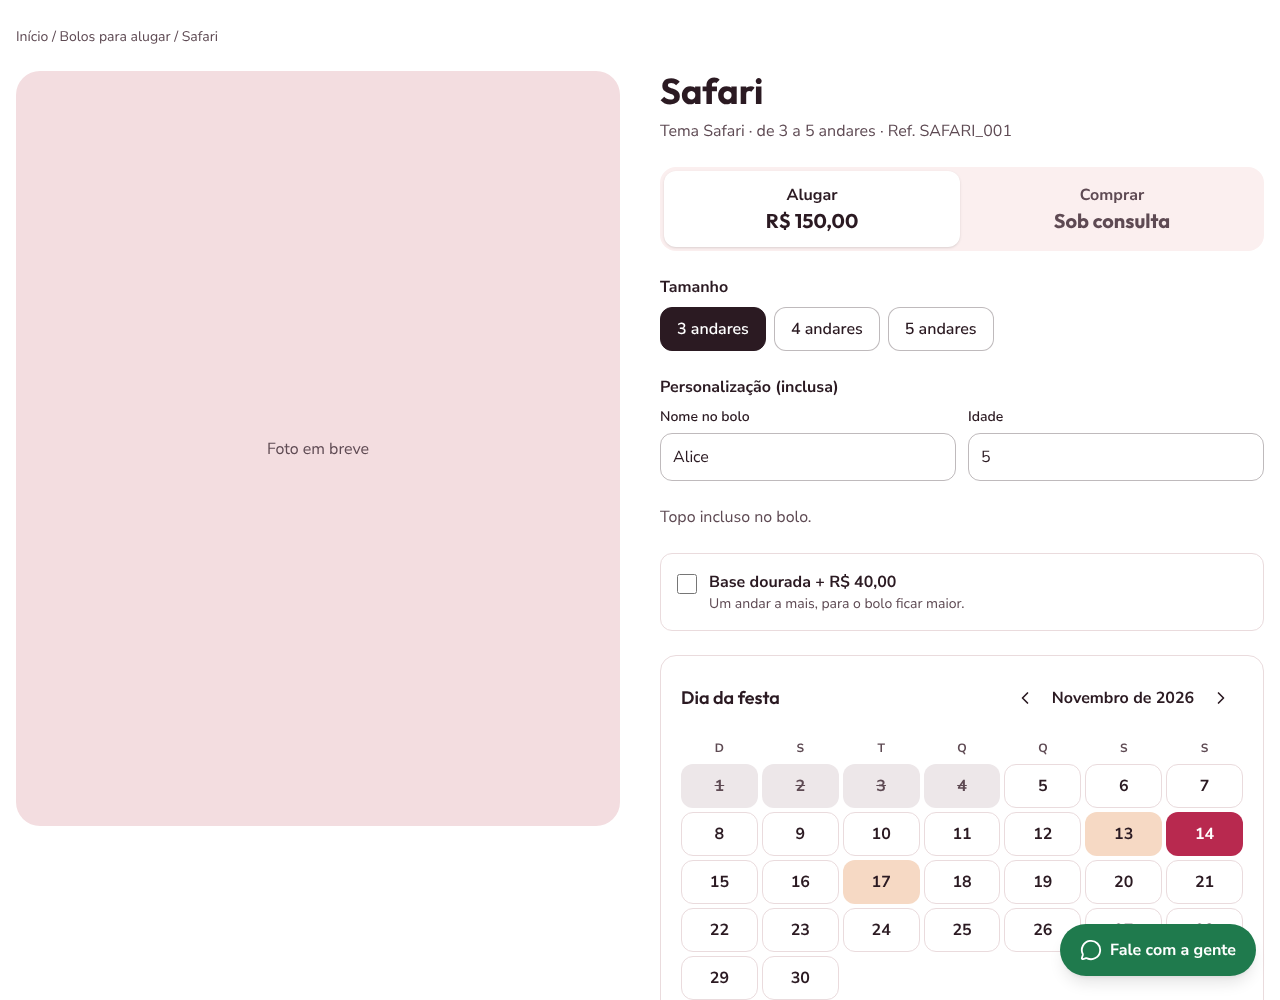
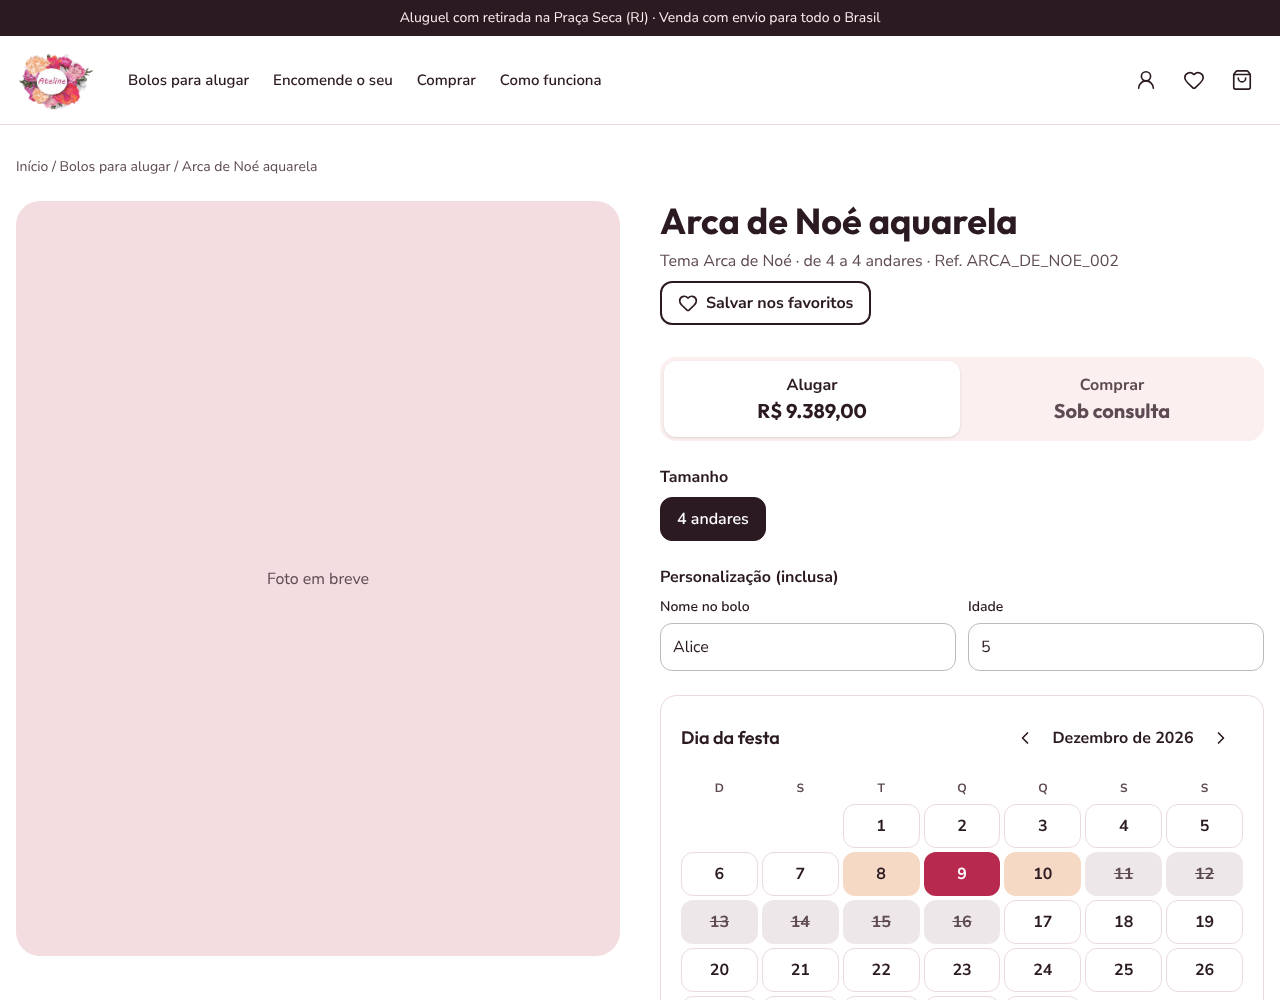
Ajustes no celular: Pix, calendário, carrinho e botões

diff --git a/components/carrinho/Carrinho.tsx b/components/carrinho/Carrinho.tsx
@@ -6,6 +6,7 @@ import { useCarrinho } from "@/hooks/useCarrinho";
 import { diaPorExtenso, primeiraMaiuscula } from "@/lib/calendario";
 import { chaveDoItem, resumoDoCarrinho, totalDoItem } from "@/lib/carrinho";
 import { formatarPreco } from "@/lib/formatar";
+import { fotoDoCartao } from "@/lib/fotosDosBolos";
 import { calcularPeriodo } from "@/lib/periodo";
 import type { ItemCarrinho } from "@/types/carrinho";
 
@@ -50,7 +51,12 @@ export function Carrinho() {
       <ul className="flex flex-col gap-4">
         {itens.map((item) => (
           <li key={chaveDoItem(item)} className="flex gap-4 rounded-2xl border border-linha p-4">
-            <div aria-hidden="true" className="h-28 w-22 shrink-0 rounded-xl bg-rosa" />
+            <div aria-hidden="true" className="relative h-20 w-16 shrink-0 overflow-hidden rounded-xl bg-rosa sm:h-28 sm:w-22">
+              {fotoDoCartao(item.codigoBolo) && (
+                // eslint-disable-next-line @next/next/no-img-element -- miniatura decorativa, já otimizada pelo npm run fotos
+                <img src={fotoDoCartao(item.codigoBolo)} alt="" className="size-full object-cover" />
+              )}
+            </div>
             <div className="flex min-w-0 flex-1 flex-col gap-1">
               <span className="self-start rounded-full bg-blush px-2.5 py-0.5 text-xs font-bold">
                 {item.tipo === "aluguel" ? "Aluguel" : "Compra"}
@@ -62,9 +68,10 @@ export function Carrinho() {
                 {item.nome}
               </Link>
               <DetalhesDoItem item={item} />
+              <span className="mt-1 font-bold sm:hidden">{formatarPreco(totalDoItem(item))}</span>
             </div>
             <div className="flex flex-col items-end justify-between">
-              <span className="font-bold">{formatarPreco(totalDoItem(item))}</span>
+              <span className="hidden font-bold sm:inline">{formatarPreco(totalDoItem(item))}</span>
               <button
                 type="button"
                 onClick={() => remover(chaveDoItem(item))}
@@ -82,18 +89,18 @@ export function Carrinho() {
         <h2 className="font-display text-xl font-semibold">Resumo</h2>
         {resumo.temAluguel && (
           <>
-            <p className="flex justify-between">
+            <p className="flex justify-between gap-3">
               <span>Locação</span>
               <span>{formatarPreco(resumo.locacao)}</span>
             </p>
-            <p className="flex justify-between">
+            <p className="flex justify-between gap-3">
               <span>Taxa de segurança (devolvida)</span>
               <span>{formatarPreco(resumo.taxas)}</span>
             </p>
           </>
         )}
         {resumo.temCompra && (
-          <p className="flex justify-between">
+          <p className="flex justify-between gap-3">
             <span>Compra</span>
             <span>{formatarPreco(resumo.compras)}</span>
           </p>

diff --git a/components/conta/FormularioEntrar.tsx b/components/conta/FormularioEntrar.tsx
@@ -121,7 +121,7 @@ export function FormularioEntrar() {
             setEmailEnviado(null);
             mudarModo("senha");
           }}
-          className="font-bold text-framboesa underline"
+          className="inline-flex min-h-11 items-center font-bold text-framboesa underline"
         >
           Voltar
         </button>
@@ -217,22 +217,22 @@ export function FormularioEntrar() {
         </button>
       </form>
 
-      <div className="flex flex-col items-start gap-2 text-sm">
+      <div className="flex flex-col items-start gap-0 text-sm">
         {modo === "senha" && (
           <>
-            <button type="button" onClick={() => mudarModo("esqueci")} className="font-bold text-framboesa underline">
+            <button type="button" onClick={() => mudarModo("esqueci")} className="inline-flex min-h-11 items-center font-bold text-framboesa underline">
               Esqueci minha senha
             </button>
             <p>
               Ainda não tem conta?{" "}
-              <button type="button" onClick={() => mudarModo("criar")} className="font-bold text-framboesa underline">
+              <button type="button" onClick={() => mudarModo("criar")} className="inline-flex min-h-11 items-center font-bold text-framboesa underline">
                 Criar conta com senha
               </button>
             </p>
           </>
         )}
         {(modo === "criar" || modo === "esqueci") && (
-          <button type="button" onClick={() => mudarModo("senha")} className="font-bold text-framboesa underline">
+          <button type="button" onClick={() => mudarModo("senha")} className="inline-flex min-h-11 items-center font-bold text-framboesa underline">
             Já tenho senha: entrar
           </button>
         )}

diff --git a/components/checkout/Confirmacao.tsx b/components/checkout/Confirmacao.tsx
@@ -122,7 +122,7 @@ export function Confirmacao() {
             href={linkEntrega}
             target="_blank"
             rel="noopener"
-            className="flex h-12 items-center gap-2 rounded-xl bg-folha px-5 font-bold text-white hover:opacity-90"
+            className="flex min-h-12 items-center gap-2 rounded-xl bg-folha px-5 py-2 font-bold leading-tight text-white hover:opacity-90"
           >
             <MessageCircle size={20} aria-hidden /> Combinar a entrega no WhatsApp
           </a>
@@ -140,7 +140,7 @@ export function Confirmacao() {
             href={linkFrete}
             target="_blank"
             rel="noopener"
-            className="flex h-12 items-center gap-2 rounded-xl bg-folha px-5 font-bold text-white hover:opacity-90"
+            className="flex min-h-12 items-center gap-2 rounded-xl bg-folha px-5 py-2 font-bold leading-tight text-white hover:opacity-90"
           >
             <MessageCircle size={20} aria-hidden /> Pedir orçamento do frete
           </a>

diff --git a/components/Footer.tsx b/components/Footer.tsx
@@ -22,7 +22,7 @@ export function Footer() {
           </p>
           <a
             href="https://www.instagram.com/atelineatelie"
-            className="text-sm font-bold text-framboesa hover:underline"
+            className="self-start py-1.5 text-sm font-bold text-framboesa hover:underline"
           >
             @atelineatelie
           </a>
@@ -35,10 +35,10 @@ export function Footer() {
           <p className="text-ameixa-suave">Fechado domingo e segunda</p>
         </div>
 
-        <nav aria-label="Ajuda" className="flex flex-col gap-1 text-sm">
+        <nav aria-label="Ajuda" className="flex flex-col items-start text-sm">
           <h2 className="mb-1 font-display text-base font-semibold">Ajuda</h2>
           {ajuda.map((link) => (
-            <Link key={link.href} href={link.href} className="hover:text-framboesa">
+            <Link key={link.href} href={link.href} className="py-1.5 hover:text-framboesa">
               {link.label}
             </Link>
           ))}

diff --git a/components/PagamentoPix.tsx b/components/PagamentoPix.tsx
@@ -52,7 +52,7 @@ export function PagamentoPix({ numero, valor, guardadoAte }: Props) {
 
   return (
     <div className="flex w-full flex-col gap-4">
-      <div className="flex flex-wrap items-start gap-5">
+      <div className="flex flex-col items-center gap-5 sm:flex-row sm:items-start">
         {qr ? (
           <div
             role="img"
@@ -65,7 +65,7 @@ export function PagamentoPix({ numero, valor, guardadoAte }: Props) {
             Gerando QR Code…
           </div>
         )}
-        <div className="flex min-w-0 flex-1 flex-col gap-2 text-sm">
+        <div className="flex w-full min-w-0 flex-1 flex-col gap-2 text-sm">
           <dl className="flex flex-col gap-1">
             <div>
               <dt className="inline text-ameixa-suave">Valor: </dt>

diff --git a/components/bolo/CalendarioReserva.tsx b/components/bolo/CalendarioReserva.tsx
@@ -51,8 +51,8 @@ export function CalendarioReserva({ codigo, reservas, festa, aoEscolher, ocupada
 
   return (
     <section aria-labelledby="titulo-calendario" className="flex flex-col gap-4 rounded-2xl border border-linha p-5">
-      <div className="flex items-center justify-between gap-2">
-        <h2 id="titulo-calendario" className="font-display text-lg font-semibold">
+      <div className="flex flex-wrap items-center justify-between gap-x-2 gap-y-1">
+        <h2 id="titulo-calendario" className="whitespace-nowrap font-display text-lg font-semibold">
           Dia da festa
         </h2>
         <div className="flex items-center gap-1">

diff --git a/components/bolo/MontarReserva.tsx b/components/bolo/MontarReserva.tsx
@@ -385,7 +385,7 @@ export function MontarReserva({ bolo, topos, bases, reservas: daPublicacao, outr
             </p>
             {erro && <p role="alert" className="font-semibold text-alerta">{erro}</p>}
             <button type="button" onClick={reservar}
-              className="mt-2 h-14 rounded-xl bg-framboesa text-lg font-bold text-white hover:bg-framboesa-escura">
+              className="mt-2 min-h-14 rounded-xl bg-framboesa px-4 py-2 text-lg font-bold leading-tight text-balance text-white hover:bg-framboesa-escura">
               Reservar e pagar sinal de {formatarPreco(sinal)}
             </button>
           </section>

diff --git a/components/home/Hero.tsx b/components/home/Hero.tsx
@@ -47,7 +47,7 @@ export function Hero() {
         </div>
 
         {/* Espaço das fotos: troque pelas fotos reais quando chegarem */}
-        <div className="grid grid-cols-2 gap-4" aria-hidden="true">
+        <div className="hidden grid-cols-2 gap-4 md:grid" aria-hidden="true">
           <div className="row-span-2 min-h-96 rounded-3xl bg-rosa" />
           <div className="min-h-44 rounded-3xl bg-pessego" />
           <div className="min-h-44 rounded-3xl bg-blush ring-1 ring-linha" />

diff --git a/README.md b/README.md
@@ -6,9 +6,11 @@ Loja online da **Ateline Ateliê** ([@atelineatelie](https://www.instagram.com/a
 
 ![Página inicial](docs/home.png)
 
-| Página do bolo, com calendário de disponibilidade | Catálogo no celular |
+![Página do bolo, com calendário de disponibilidade](docs/bolo.png)
+
+| Catálogo no celular | Pix do sinal, gerado no próprio site |
 | --- | --- |
-| ![Página do bolo](docs/bolo.png) | ![Catálogo no celular](docs/celular.png) |
+| ![Catálogo no celular](docs/celular.png) | ![Pix com QR Code e copia e cola](docs/pix.png) |
 
 > As fotos dos bolos ainda estão sendo produzidas. Bolo sem foto mostra "Foto em breve"; com foto, o site já exibe sozinho (veja `npm run fotos`).
 
@@ -22,13 +24,15 @@ Hoje o atendimento da Ateline é todo pelo WhatsApp: a cliente pergunta se o bol
 - **"Livres na sua data":** tocando num dia ocupado, a cliente vê outros bolos livres naquele dia (mesmo tema primeiro) e já abre o bolo com a data escolhida.
 - **Montar a reserva:** tamanho (número de andares), decoração, topo opcional, base dourada e personalização (nome, idade ou inicial). O topo e a base também têm agenda própria.
 - **Filtro "só livres nessa data"** no catálogo, além de busca por nome, tema e decoração.
+- **Entrega do aluguel combinada pelo WhatsApp:** a loja entrega só em alguns bairros. A cliente reserva e paga o sinal normalmente e, na confirmação, um botão abre o WhatsApp com a reserva, as datas e o endereço para saber se a loja atende e o valor; se não atender, ela retira na loja. No painel, o cartão de saída avisa quem pediu entrega e o bairro.
 - **Compra:** com 50% de sinal, retirada grátis na loja ou envio por transportadora. O CEP preenche o endereço sozinho (ViaCEP), e o orçamento do frete vai pronto para o WhatsApp da loja.
 - **Encomenda:** formulário de orçamento para um bolo novo e a opção de **refazer** um bolo que saiu do acervo, com cupom de desconto e antecedência mínima de 20 dias.
 - **Carrinho e checkout** com aluguel e compra no mesmo pedido, validação de CPF e telefone, aceite do contrato e chave Pix para devolver a taxa de segurança. Depois do pedido, aparece o **Pix da Ateline (QR Code e copia e cola)** já com o valor do sinal e o número do pedido, gerado no próprio site no padrão do Banco Central e pago direto na conta PJ, sem intermediário. O banco confere a agenda e os preços e reserva as peças por 30 minutos, o tempo de pagar o sinal (a loja só garante a data com o sinal pago na hora).
 - **Login com senha ou com link mágico por e-mail** (criar conta, esqueci a senha) e **Minha conta:** próxima retirada, histórico de pedidos com a situação de cada um e dados pessoais e endereço salvos na conta.
 - **Adiar ou cancelar pela conta:** com o sinal pago e até 15 dias antes da festa, a cliente escolhe a nova data num calendário que só mostra os dias livres, e o banco move a reserva na hora. Se cancelar, o sinal vira **crédito em loja** por 3 meses, que pode pagar o sinal de um próximo pedido no checkout (se cobrir o sinal inteiro, o pedido já sai confirmado).
-- **Contrato em PDF:** o contrato de locação sai preenchido com os dados da cliente, as peças, as datas e os valores, e pode ser baixado na confirmação do pedido e em Minha conta. O PDF é gerado no próprio navegador ([jsPDF](https://github.com/parallax/jsPDF)).
+- **Contrato em PDF:** o contrato de locação sai preenchido com os dados da cliente, as peças, as datas, os valores e o valor de reposição de cada bolo (cobrado se a peça não voltar ou voltar sem conserto), além da data, hora e IP do aceite, e pode ser baixado na confirmação do pedido e em Minha conta. O PDF é gerado no próprio navegador ([jsPDF](https://github.com/parallax/jsPDF)).
 - **Favoritos para decidir em família:** a cliente separa até 3 bolos no coração e manda um link pelo WhatsApp; quem abre vê os bolos lado a lado.
+- **Fotos dos bolos:** cada bolo tem uma pasta com o código dele (pode ser no OneDrive); `npm run fotos` gera versões leves, e o site mostra a foto nos cartões, uma galeria com miniaturas na página do bolo e a foto no link compartilhado.
 - **Painel da loja:** agenda do dia (o que sai, o que volta, o que está atrasado), confirmação de pagamento com um clique, checklist de devolução, fotos das peças na saída e na volta (guardadas numa pasta privada do Supabase Storage, com as da saída ao lado na devolução para comparar avarias) e a conta da taxa de segurança (multa por atraso, vela não devolvida, avaria). O painel pode ser **instalado no celular como app** (PWA, só ele: as páginas das clientes continuam um site normal), com uma página amigável quando está sem internet. Como o app instalado no iPhone não recebe o login pelo link do e-mail, a equipe pode criar uma senha no painel e entrar com e-mail e senha.
 - **Relatórios:** faturamento, bolos mais alugados, festas por dia da semana, clientes (novas por mês e as que voltaram) e bolos mais vistos no site, com alerta para os muito vistos e pouco alugados. As visualizações são contadas sem guardar dados de quem viu.
 - **Conteúdo para o Instagram:** o painel monta posts (bolos livres no próximo sábado, destaque, como funciona) com imagem e legenda; a dona revisa, aprova e agenda, e na hora marcada copia a legenda e baixa a imagem para postar.
@@ -65,7 +69,7 @@ flowchart LR
 - **Site estático + Supabase, sem servidor próprio.** As páginas são geradas na hora de publicar (`output: "export"`, uma por bolo com `generateStaticParams`) e já saem com a agenda daquele momento. No navegador, a agenda é buscada de novo no Supabase, então uma reserva feita no painel aparece na hora.
 - **O banco é quem decide.** A trava contra reserva dupla é uma *exclusion constraint* do Postgres (mesma peça + períodos que se cruzam), e o pedido é criado por uma função (`criar_pedido`) que confere a agenda, recalcula os valores com os preços do banco e reserva as peças numa só transação. Reservas sem sinal se soltam sozinhas depois de 30 minutos.
 - **Segurança por pessoa com RLS.** Visitante só lê a agenda pública; cada cliente só vê os próprios dados e pedidos; o painel e as ações da loja só funcionam para quem está na tabela da equipe. A chave secreta do Supabase fica só nos *secrets* do GitHub.
-- **Regras de negócio em funções puras e testadas.** Datas, disponibilidade, valores, cupom, conta da taxa de segurança e validações ficam em `lib/`, separados das telas, com 176 testes. As regras de datas do banco foram comparadas com as do site para todos os dias de um ano.
+- **Regras de negócio em funções puras e testadas.** Datas, disponibilidade, valores, cupom, conta da taxa de segurança e validações ficam em `lib/`, separados das telas, com 190 testes (e mais 10 de ponta a ponta, no computador e no celular). As regras de datas do banco foram comparadas com as do site para todos os dias de um ano.
 - **Testes de ponta a ponta a cada push.** O Playwright abre o site publicado num navegador (computador e celular), aluga um bolo do catálogo até a confirmação e confere os avisos de data ocupada e bolo vendido, com o Supabase simulado. Se algum falhar, o site não é publicado.
 - **Carrinho no navegador.** Fica no `localStorage`, lido com `useSyncExternalStore`, e as abas abertas ficam sincronizadas.
 - **Fotos sem banco de imagens.** Cada bolo tem uma pasta com o código dele em `dados-fonte/fotos/` (os originais, pesados, não vão para o GitHub). `npm run fotos` corrige a orientação da foto do celular, gera duas versões WebP (grande para a página do bolo, pequena para os cartões) e lista tudo em `data/fotos.json`, com uma "versão" por foto para o navegador não mostrar a antiga quando ela é trocada. A página do bolo ganha galeria com miniaturas, e o link compartilhado no WhatsApp mostra a foto do bolo.
@@ -112,11 +116,11 @@ components/   componentes de tela, separados por página
 hooks/        carrinho, login, agenda ao vivo e pedidos
 lib/          regras de negócio e funções testadas
 types/        tipos do catálogo, do carrinho e dos pedidos
-data/         catálogo em JSON (gerado da planilha)
+data/         catálogo e lista de fotos em JSON (gerados pelos scripts)
 supabase/     tabelas, funções e regras de segurança do banco (SQL)
-scripts/      importador da planilha e sincronização de preços
+scripts/      importador da planilha, preparo das fotos e sincronização de preços
 e2e/          testes de ponta a ponta (Playwright)
-dados-fonte/  planilha preenchida pela loja
+dados-fonte/  planilhas preenchidas pela loja
 ```
 
 ## Próximos passos
